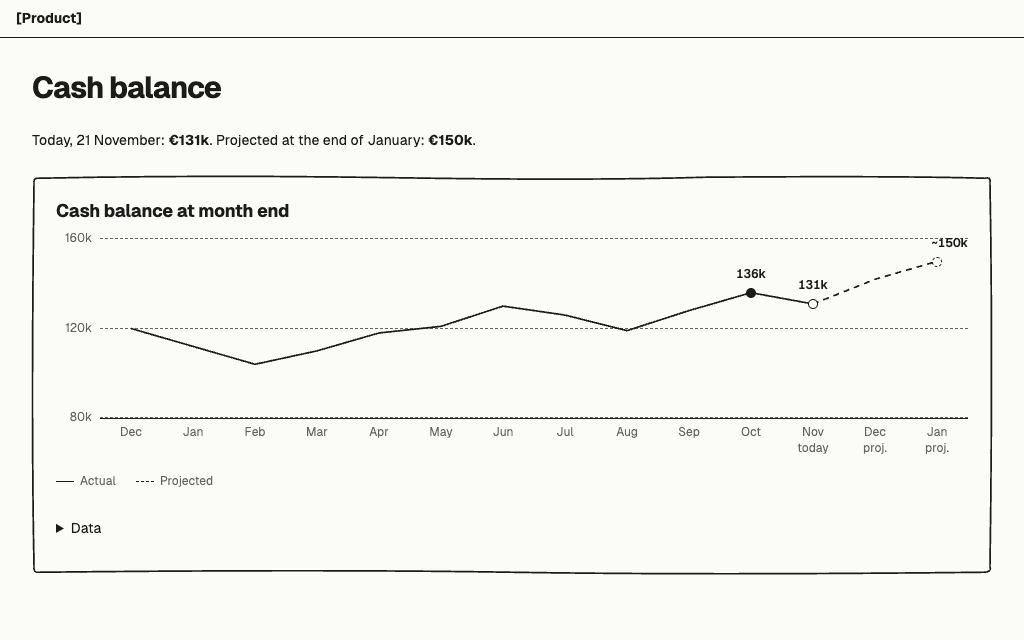
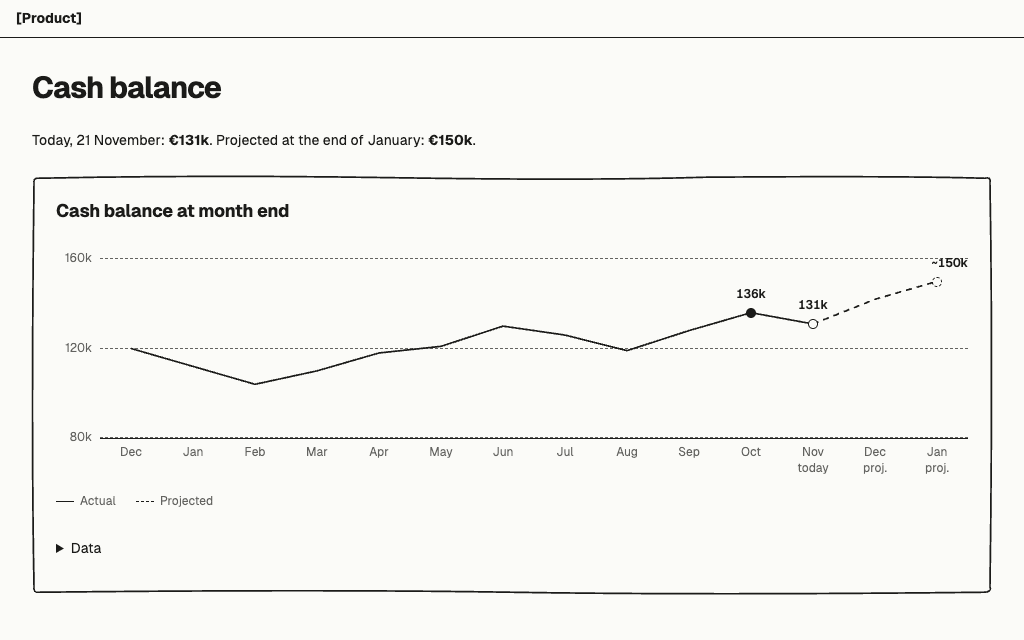
Fix the review findings of the chart templates
Fixed 1: bars keep their height, and labels sit outside it.
Fixed 2: the table sparkline adds projected December.
Fixed 3: the table keeps labels for its values below 600 px.
Fixed 4: the stat trend has a data table, and each sparkline names every value.
Fixed 5: the rule pages match the plotted periods.

Part of #8

diff --git a/templates/chart/table-sparkline.html b/templates/chart/table-sparkline.html
@@ -1,5 +1,5 @@
 <!-- Best for: A table where each row needs its own trend next to its numbers, such as revenue by client or usage by plan. -->
-<!-- Many periods: Each sparkline holds the last 12 months and one projected month in a fixed width of 120 px. It never gets an axis or a scroll bar. For a longer history, open the row's own chart. -->
+<!-- Many periods: Each sparkline holds 11 complete months, the current month and one projected month in a fixed width of 120 px. It never gets an axis or a scroll bar. For a longer history, open the row's own chart. -->
 <!doctype html>
 <html lang="en">
 <meta charset="utf-8">
@@ -12,17 +12,17 @@
   <h1>Revenue by client</h1>
   <section class="sketch-panel sketch-frame sketch-stack">
     <div class="sketch-table-box"><table class="sketch-table">
-      <thead><tr><th>Client</th><th>Trend</th><th style="text-align:right">Nov to date</th><th class="sketch-from-tablet" style="text-align:right">Nov projected</th><th style="text-align:right">vs. Oct, same day</th></tr></thead>
+      <thead><tr><th>Client</th><th>Trend</th><th style="text-align:right">Nov to date</th><th class="sketch-from-tablet" style="text-align:right">Nov proj.</th><th class="sketch-from-tablet" style="text-align:right">Dec proj.</th><th style="text-align:right">vs. Oct, same day</th></tr></thead>
       <tbody>
-        <tr><td><a href="#">Northwind Studio</a></td><td><svg class="sketch-spark" style="width:120px" viewBox="0 0 100 24" preserveAspectRatio="none" role="img" aria-label="Northwind Studio, last 12 months: rising, from 8k to 14k. November projected 15k."><polyline points="0,12.3 8,11.1 16,11.1 24,9.9 32,8.7 40,9.9 48,7.5 56,7.5 64,8.7 72,6.2 80,5"/><polyline class="projected" points="80,5 100,3.8"/></svg></td><td style="text-align:right">€9k</td><td class="sketch-from-tablet" style="text-align:right">€15k</td><td style="text-align:right">+7%</td></tr>
-        <tr><td><a href="#">Harbor Analytics</a></td><td><svg class="sketch-spark" style="width:120px" viewBox="0 0 100 24" preserveAspectRatio="none" role="img" aria-label="Harbor Analytics, last 12 months: falling, from 12k to 6k. November projected 6k."><polyline points="0,3.8 8,5.3 16,6.8 24,6.8 32,8.4 40,8.4 48,9.9 56,9.9 64,11.4 72,11.4 80,12.9"/><polyline class="projected" points="80,12.9 100,12.9"/></svg></td><td style="text-align:right">€4k</td><td class="sketch-from-tablet" style="text-align:right">€6k</td><td style="text-align:right">−14%</td></tr>
-        <tr><td><a href="#">Lumen Health</a></td><td><svg class="sketch-spark" style="width:120px" viewBox="0 0 100 24" preserveAspectRatio="none" role="img" aria-label="Lumen Health, last 12 months: rising, from 5k to 8k. November projected 9k."><polyline points="0,11.9 8,11.9 16,9.9 24,9.9 32,9.9 40,7.9 48,7.9 56,7.9 64,5.8 72,5.8 80,5.8"/><polyline class="projected" points="80,5.8 100,3.8"/></svg></td><td style="text-align:right">€6k</td><td class="sketch-from-tablet" style="text-align:right">€9k</td><td style="text-align:right">+13%</td></tr>
-        <tr><td><a href="#">Carta Logistics</a></td><td><svg class="sketch-spark" style="width:120px" viewBox="0 0 100 24" preserveAspectRatio="none" role="img" aria-label="Carta Logistics, last 12 months: rising, from 9k to 10k. November projected 10k."><polyline points="0,5.6 8,5.6 16,7.5 24,3.8 32,5.6 40,3.8 48,5.6 56,5.6 64,3.8 72,5.6 80,3.8"/><polyline class="projected" points="80,3.8 100,3.8"/></svg></td><td style="text-align:right">€7k</td><td class="sketch-from-tablet" style="text-align:right">€10k</td><td style="text-align:right">0%</td></tr>
-        <tr><td><a href="#">Brightline Media</a></td><td><svg class="sketch-spark" style="width:120px" viewBox="0 0 100 24" preserveAspectRatio="none" role="img" aria-label="Brightline Media, last 12 months: rising, from 7k to 13k. November projected 12k."><polyline points="0,12.2 8,16.4 16,17.8 24,13.6 32,10.8 40,9.4 48,6.6 56,8 64,13.6 72,5.2 80,3.8"/><polyline class="projected" points="80,3.8 100,5.2"/></svg></td><td style="text-align:right">€8k</td><td class="sketch-from-tablet" style="text-align:right">€12k</td><td style="text-align:right">−8%</td></tr>
+        <tr><td><a href="#">Northwind Studio</a></td><td><svg class="sketch-spark" style="width:120px" viewBox="0 0 100 24" preserveAspectRatio="none" role="img" aria-label="Northwind Studio, December 2025 to October 2026: 8k, 9k, 9k, 10k, 11k, 10k, 12k, 12k, 11k, 13k, 14k. November to date 9k, projected 15k. December projected 16k."><polyline points="0,12.9 8.3,11.8 16.7,11.8 25,10.6 33.3,9.5 41.7,10.6 50,8.4 58.3,8.4 66.7,9.5 75,7.2 83.3,6.1"/><polyline class="projected" points="83.3,6.1 91.7,5 100,3.8"/></svg></td><td style="text-align:right"><span class="sketch-phone-only sketch-muted">Nov to date </span>€9k</td><td class="sketch-from-tablet" style="text-align:right">€15k</td><td class="sketch-from-tablet" style="text-align:right">€16k</td><td style="text-align:right"><span class="sketch-phone-only sketch-muted">vs. Oct, same day </span>+7%</td></tr>
+        <tr><td><a href="#">Harbor Analytics</a></td><td><svg class="sketch-spark" style="width:120px" viewBox="0 0 100 24" preserveAspectRatio="none" role="img" aria-label="Harbor Analytics, December 2025 to October 2026: 12k, 11k, 10k, 10k, 9k, 9k, 8k, 8k, 7k, 7k, 6k. November to date 4k, projected 6k. December projected 6k."><polyline points="0,3.8 8.3,5.3 16.7,6.8 25,6.8 33.3,8.4 41.7,8.4 50,9.9 58.3,9.9 66.7,11.4 75,11.4 83.3,12.9"/><polyline class="projected" points="83.3,12.9 91.7,12.9 100,12.9"/></svg></td><td style="text-align:right"><span class="sketch-phone-only sketch-muted">Nov to date </span>€4k</td><td class="sketch-from-tablet" style="text-align:right">€6k</td><td class="sketch-from-tablet" style="text-align:right">€6k</td><td style="text-align:right"><span class="sketch-phone-only sketch-muted">vs. Oct, same day </span>−14%</td></tr>
+        <tr><td><a href="#">Lumen Health</a></td><td><svg class="sketch-spark" style="width:120px" viewBox="0 0 100 24" preserveAspectRatio="none" role="img" aria-label="Lumen Health, December 2025 to October 2026: 5k, 5k, 6k, 6k, 6k, 7k, 7k, 7k, 8k, 8k, 8k. November to date 6k, projected 9k. December projected 9k."><polyline points="0,11.9 8.3,11.9 16.7,9.9 25,9.9 33.3,9.9 41.7,7.9 50,7.9 58.3,7.9 66.7,5.8 75,5.8 83.3,5.8"/><polyline class="projected" points="83.3,5.8 91.7,3.8 100,3.8"/></svg></td><td style="text-align:right"><span class="sketch-phone-only sketch-muted">Nov to date </span>€6k</td><td class="sketch-from-tablet" style="text-align:right">€9k</td><td class="sketch-from-tablet" style="text-align:right">€9k</td><td style="text-align:right"><span class="sketch-phone-only sketch-muted">vs. Oct, same day </span>+13%</td></tr>
+        <tr><td><a href="#">Carta Logistics</a></td><td><svg class="sketch-spark" style="width:120px" viewBox="0 0 100 24" preserveAspectRatio="none" role="img" aria-label="Carta Logistics, December 2025 to October 2026: 9k, 9k, 8k, 10k, 9k, 10k, 9k, 9k, 10k, 9k, 10k. November to date 7k, projected 10k. December projected 10k."><polyline points="0,5.6 8.3,5.6 16.7,7.5 25,3.8 33.3,5.6 41.7,3.8 50,5.6 58.3,5.6 66.7,3.8 75,5.6 83.3,3.8"/><polyline class="projected" points="83.3,3.8 91.7,3.8 100,3.8"/></svg></td><td style="text-align:right"><span class="sketch-phone-only sketch-muted">Nov to date </span>€7k</td><td class="sketch-from-tablet" style="text-align:right">€10k</td><td class="sketch-from-tablet" style="text-align:right">€10k</td><td style="text-align:right"><span class="sketch-phone-only sketch-muted">vs. Oct, same day </span>0%</td></tr>
+        <tr><td><a href="#">Brightline Media</a></td><td><svg class="sketch-spark" style="width:120px" viewBox="0 0 100 24" preserveAspectRatio="none" role="img" aria-label="Brightline Media, December 2025 to October 2026: 7k, 4k, 3k, 6k, 8k, 9k, 11k, 10k, 6k, 12k, 13k. November to date 8k, projected 12k. December projected 13k."><polyline points="0,12.2 8.3,16.4 16.7,17.8 25,13.6 33.3,10.8 41.7,9.4 50,6.6 58.3,8 66.7,13.6 75,5.2 83.3,3.8"/><polyline class="projected" points="83.3,3.8 91.7,5.2 100,3.8"/></svg></td><td style="text-align:right"><span class="sketch-phone-only sketch-muted">Nov to date </span>€8k</td><td class="sketch-from-tablet" style="text-align:right">€12k</td><td class="sketch-from-tablet" style="text-align:right">€13k</td><td style="text-align:right"><span class="sketch-phone-only sketch-muted">vs. Oct, same day </span>−8%</td></tr>
       </tbody>
     </table></div>
     <ul class="sketch-key" aria-hidden="true">
-      <li><i class="line"></i>Actual, Dec to Oct</li><li><i class="line projected"></i>Projected, Nov</li>
+      <li><i class="line"></i>Actual, Dec to Oct</li><li><i class="line projected"></i>Projected, Nov and Dec</li>
     </ul>
   </section>
 </main>

diff --git a/templates/chart/stat-trend.html b/templates/chart/stat-trend.html
@@ -22,11 +22,28 @@
       <div class="sketch-chart" style="--n:8" role="img" aria-label="Margin, May to October: 9k, 12k, 11k, 6k, 13k, 16k. November to date 12k, projected 17k. December projected 19k."><div class="sketch-plot" style="--h:48px"><div><i style="--v:45%"></i></div><div><i style="--v:60%"></i></div><div><i style="--v:55%"></i></div><div><i style="--v:30%"></i></div><div><i style="--v:65%"></i></div><div><i style="--v:80%"></i></div><div class="partial"><i class="rest" style="--v:25%"></i><i style="--v:60%"></i></div><div class="projected"><i style="--v:95%"></i></div></div><div class="sketch-row sketch-muted" style="font-size:12px" aria-hidden="true"><span>May</span><span class="sketch-spacer"></span><span>Dec proj.</span></div></div></section>
     <section class="sketch-panel sketch-frame sketch-stack" style="gap:4px"><h2 class="sketch-muted" style="font-size:inherit;font-weight:400;margin:0">Cash balance</h2>
       <div class="sketch-row"><b style="font-size:32px">€131k</b><span>today</span></div><span>▼ 4% vs. October end</span>
-      <svg class="sketch-spark" style="height:48px" viewBox="0 0 100 24" preserveAspectRatio="none" role="img" aria-label="Cash balance, May to October month ends: 121k, 130k, 126k, 119k, 128k, 136k. Today 131k. January projected 150k."><polyline points="0,15 12.5,12 25,13.3 37.5,15.7 50,12.7 62.5,10 71,11.7"/><polyline class="projected" points="71,11.7 87.5,8 100,5.3"/></svg>
-      <div class="sketch-row sketch-muted" style="font-size:12px" aria-hidden="true"><span>May</span><span class="sketch-spacer"></span><span>Jan proj.</span></div></section>
+      <svg class="sketch-spark" style="height:48px" viewBox="0 0 100 24" preserveAspectRatio="none" role="img" aria-label="Cash balance, May to October month ends: 121k, 130k, 126k, 119k, 128k, 136k. Today 131k. December end projected 142k."><polyline points="0,17.6 14.3,14 28.6,15.6 42.9,18.4 57.1,14.8 71.4,11.6 85.7,13.6"/><polyline class="projected" points="85.7,13.6 100,9.2"/></svg>
+      <div class="sketch-row sketch-muted" style="font-size:12px" aria-hidden="true"><span>May</span><span class="sketch-spacer"></span><span>Dec proj.</span></div></section>
   </div>
   <ul class="sketch-key" aria-hidden="true">
     <li><i></i>Actual</li><li><i class="projected"></i>Projected</li>
   </ul>
+  <details>
+    <summary>Data</summary>
+    <div class="sketch-table-box"><table class="sketch-table sketch-data">
+      <thead><tr><th>Month</th><th>Revenue</th><th>Costs</th><th>Margin</th><th>Cash</th></tr></thead>
+      <tbody>
+          <tr><td>May</td><td>€45k</td><td>€36k</td><td>€9k</td><td>€121k</td></tr>
+          <tr><td>Jun</td><td>€50k</td><td>€38k</td><td>€12k</td><td>€130k</td></tr>
+          <tr><td>Jul</td><td>€48k</td><td>€37k</td><td>€11k</td><td>€126k</td></tr>
+          <tr><td>Aug</td><td>€42k</td><td>€36k</td><td>€6k</td><td>€119k</td></tr>
+          <tr><td>Sep</td><td>€52k</td><td>€39k</td><td>€13k</td><td>€128k</td></tr>
+          <tr><td>Oct</td><td>€55k</td><td>€39k</td><td>€16k</td><td>€136k</td></tr>
+          <tr><td>Nov to date</td><td>€39k</td><td>€27k</td><td>€12k</td><td>€131k</td></tr>
+          <tr><td>Nov projected</td><td>€57k</td><td>€40k</td><td>€17k</td><td>–</td></tr>
+          <tr><td>Dec projected</td><td>€60k</td><td>€41k</td><td>€19k</td><td>€142k</td></tr>
+      </tbody>
+    </table></div>
+  </details>
 </main>
 <script src="../../assets/sketch.js"></script>

diff --git a/assets/sketch.css b/assets/sketch.css
@@ -308,7 +308,8 @@ html[data-theme="dark"] [data-sketch], html[data-theme="dark"][data-sketch] {
 [data-sketch] :is(.sketch-plot, .sketch-periods) { display: grid; grid-template-columns: repeat(var(--n), minmax(0, 1fr)); margin: 0; }
 [data-sketch] .sketch-plot { position: relative; height: var(--h, 180px); border-bottom: var(--sketch-stroke) solid var(--sketch-ink); }
 [data-sketch] .sketch-plot > div { position: relative; display: flex; flex-direction: column; justify-content: end; align-items: center; min-width: 0; padding: 0 clamp(1px, .6vw, 8px); }
-[data-sketch] .sketch-plot > div > i { width: 100%; max-width: 48px; height: var(--v); background: var(--sketch-ink); border-radius: 4px 4px 0 0; }
+[data-sketch] .sketch-plot:has(> div > b) { margin-top: 20px; } /* Room for the value label of a full-height bar. */
+[data-sketch] .sketch-plot > div > i { flex-shrink: 0; width: 100%; max-width: 48px; height: var(--v); background: var(--sketch-ink); border-radius: 4px 4px 0 0; }
 [data-sketch] .sketch-plot > div > i + i { border-radius: 0; }
 [data-sketch] .sketch-plot > div > b { margin-bottom: 4px; font-size: 12px; font-weight: 600; white-space: nowrap; font-variant-numeric: tabular-nums; }
 [data-sketch] .sketch-plot > div:last-child > b { align-self: end; } /* The last value stays inside the plot. */
@@ -347,6 +348,10 @@ html[data-theme="dark"] [data-sketch], html[data-theme="dark"][data-sketch] {
   [data-sketch] :is(.sketch-from-tablet, .sketch-from-desktop, .sketch-table thead) { display: none !important; }
   [data-sketch] .sketch-table tr { display: flex; flex-wrap: wrap; align-items: center; gap: 0 12px; padding: 12px 0; border-bottom: var(--sketch-stroke) solid var(--sketch-wash); }
   [data-sketch] .sketch-table td { padding: 0; border: 0; }
+  [data-sketch] .sketch-plot:not(.line) > div:last-child > b { position: absolute; top: -20px; right: 0; margin: 0; } /* A narrow last bar puts its value above the plot, clear of a taller bar before it. */
+  [data-sketch] .sketch-data thead { display: table-header-group !important; } /* A data table keeps its headers and rows, so each value keeps its period and its series. */
+  [data-sketch] .sketch-data tr { display: table-row; padding: 0; }
+  [data-sketch] .sketch-data :is(th, td) { padding: 6px 8px; }
   [data-sketch] :is(.sketch-plot > .minor > b, .sketch-periods > .minor, .sketch-periods small) { visibility: hidden; }
   [data-sketch] .sketch-periods small { display: none; }
 }

diff --git a/templates/chart/bars-with-line.html b/templates/chart/bars-with-line.html
@@ -56,7 +56,7 @@
     </ul>
     <details>
     <summary>Data</summary>
-    <div class="sketch-table-box"><table class="sketch-table">
+    <div class="sketch-table-box"><table class="sketch-table sketch-data">
       <thead><tr><th>Month</th><th>State</th><th>Revenue</th><th>Plan</th></tr></thead>
       <tbody>
           <tr><td>Dec 2025</td><td>Actual</td><td>€41k</td><td>€40k</td></tr>

diff --git a/templates/chart/line-over-time.html b/templates/chart/line-over-time.html
@@ -56,7 +56,7 @@
     </ul>
     <details>
     <summary>Data</summary>
-    <div class="sketch-table-box"><table class="sketch-table">
+    <div class="sketch-table-box"><table class="sketch-table sketch-data">
       <thead><tr><th>Month</th><th>State</th><th>Balance</th></tr></thead>
       <tbody>
           <tr><td>Dec 2025</td><td>Actual, month end</td><td>€120k</td></tr>

diff --git a/templates/chart/monthly-bars.html b/templates/chart/monthly-bars.html
@@ -52,7 +52,7 @@
     </ul>
     <details>
     <summary>Data</summary>
-    <div class="sketch-table-box"><table class="sketch-table">
+    <div class="sketch-table-box"><table class="sketch-table sketch-data">
       <thead><tr><th>Month</th><th>State</th><th>Revenue</th></tr></thead>
       <tbody>
           <tr><td>Dec 2025</td><td>Actual</td><td>€41k</td></tr>

diff --git a/references/charts/table-sparkline.md b/references/charts/table-sparkline.md
@@ -15,8 +15,8 @@ Template: `templates/chart/table-sparkline.html`. The rules for every chart are 
 
 ## Many periods
 
-Each sparkline holds the last 12 months and one projected month in a fixed width of 120 px. It never gets an axis or a scroll bar. For a longer history, open the chart of the row. Below 600 px, the table rows wrap, and less important columns hide with `sketch-from-tablet`.
+Each sparkline holds 11 complete months, the current month and one projected month in a fixed width of 120 px. It never gets an axis or a scroll bar. For a longer history, open the chart of the row. Below 600 px, the table rows wrap, and less important columns hide with `sketch-from-tablet`. The headers hide too, so each value that stays gets its header as a `sketch-phone-only` label.
 
 ## Current and projected periods
 
-The solid line holds the complete months. The last fifth of the width is a dashed line to the projected value of the current month. The columns next to the sparkline give the value to date and the projected value. The change column "vs. Oct, same day" compares the value to date with the earlier month at the same day.
+The solid line holds the complete months. The dashed line goes to the projected value of the current month, then to the projected next month. The columns next to the sparkline give the value to date and the 2 projected values. The `aria-label` of each sparkline gives every value, because a data table for each row does not fit the row. The change column "vs. Oct, same day" compares the value to date with the earlier month at the same day.

diff --git a/references/charts.md b/references/charts.md
@@ -23,7 +23,7 @@ Use this page to choose a chart template and to draw a chart in a sketch. The pr
 - Never use a second value axis. If two series have different units, draw two charts.
 - Never scroll inside a chart. Each rule page says how many periods fit and what to do with more.
 - Name each mark in words in a `sketch-key`. Never use a hue.
-- Give the chart `role="img"` and an `aria-label` with a summary and the values. Put the data in a `details` table below the chart.
+- Give the chart `role="img"` and an `aria-label` with a summary and the values. Put the data in a `details` table below the chart, with the class `sketch-data`. A sparkline in a table row gives every value in its `aria-label` in place of a table.
 - Write the main number of the chart in one sentence above it, such as "November so far: €39k of €57k projected."
 
 ## The chart classes
@@ -39,3 +39,4 @@ The classes are in `assets/sketch.css`, after the sparkline.
 - `<span class="sketch-tick" style="--v:50%"><span>30k</span></span>` in the plot draws a grid line with its value on the left.
 - `--h` on a `sketch-plot` sets its height. The default is 180 px.
 - `projected` on a `polyline` in a `sketch-spark` makes that part dashed.
+- `sketch-data` on a `sketch-table` keeps its headers and rows below 600 px. Use it for the data table of a chart.

diff --git a/references/charts/stat-trend.md b/references/charts/stat-trend.md
@@ -19,4 +19,4 @@ Each small trend holds 6 complete months, the current month and one projected mo
 
 ## Current and projected periods
 
-The big number is the value to date of the current period, with "of €57k projected" beside it. The change compares the value to date with the earlier period at the same day, such as "vs. October at day 21". In the small bars, the current month is solid to date with a hatched rest, and the projected month is hatched.
+The big number is the value to date of the current period, with "of €57k projected" beside it. The change compares the value to date with the earlier period at the same day, such as "vs. October at day 21". In the small bars, the current month is solid to date with a hatched rest, and the projected month is hatched. In the cash sparkline, the line is solid to today and dashed to the projected end of the next month. One `details` table below the cards gives every value of every card.
